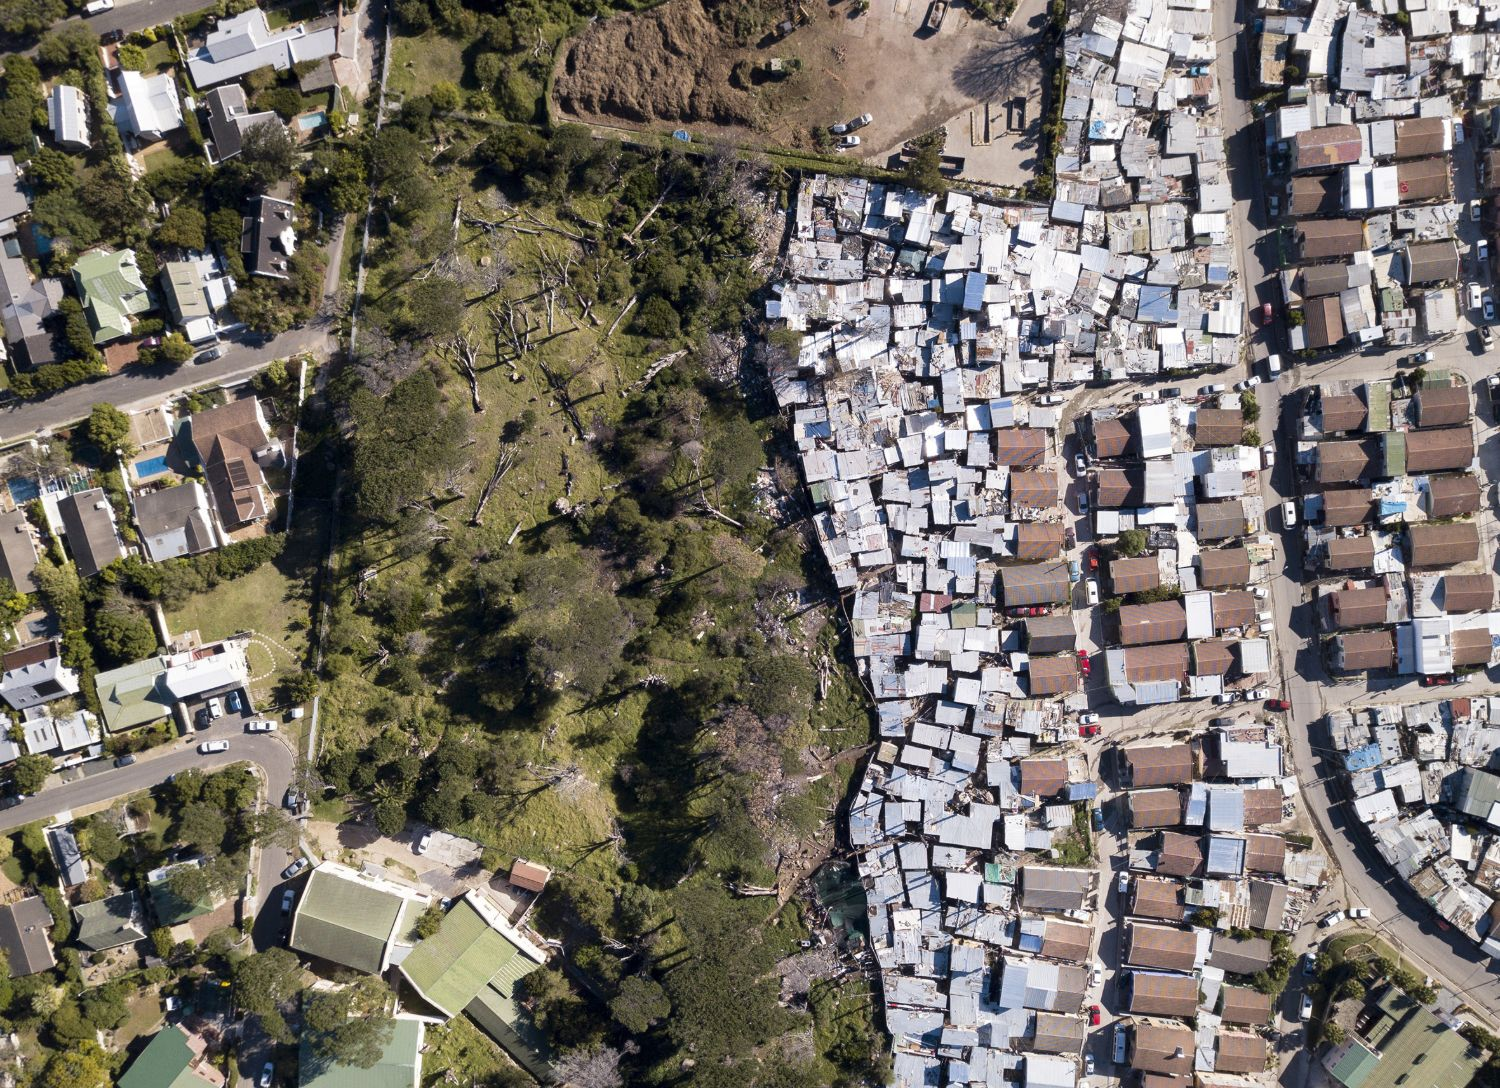
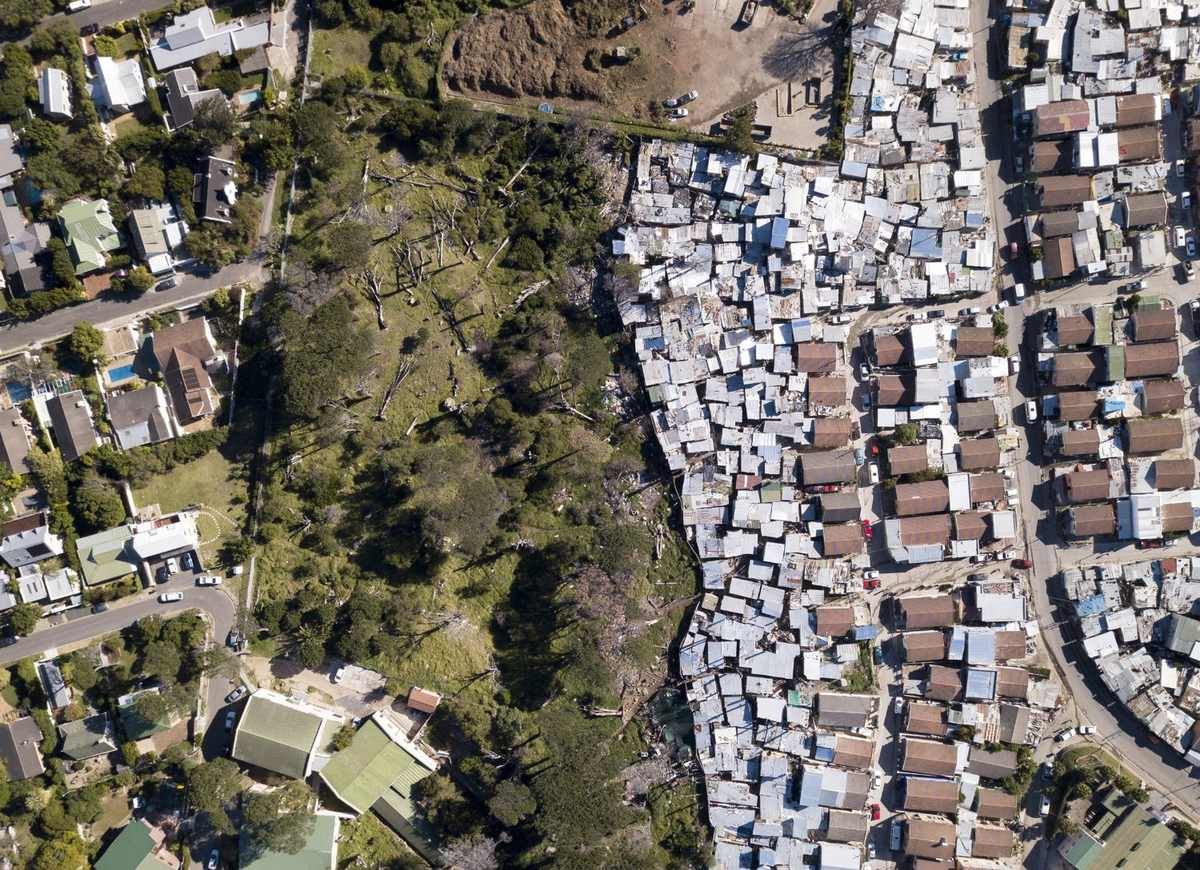
Compress the hero image for faster load
Recompress the course hero from the original: resize to 1200px wide and
re-encode as a progressive, optimized JPEG. 509 KB -> 183 KB (64% smaller),
with no visible loss under the brand overlay. Bump the asset cache version.

Claude-Session: https://claude.ai/code/session_01L86c8n6w93yhFaoJDazVFP

diff --git a/index.html b/index.html
@@ -8,7 +8,7 @@
   <link rel="preconnect" href="https://fonts.googleapis.com">
   <link rel="preconnect" href="https://fonts.gstatic.com" crossorigin>
   <link href="https://fonts.googleapis.com/css2?family=Noto+Sans:wght@400;500;600;700;800&display=swap" rel="stylesheet">
-  <link rel="stylesheet" href="assets/style.css?v=20261003">
+  <link rel="stylesheet" href="assets/style.css?v=20261004">
 </head>
 <body>
   <header class="hero">
@@ -166,10 +166,10 @@
     <div class="wrap">© International Training Centre of the ILO, 2026 · Programme on Social Protection, Governance and Tripartism (SPGT)</div>
   </footer>
 
-  <script src="data/course.js?v=20261003"></script>
-  <script src="data/participants.js?v=20261003"></script>
-  <script src="data/samples.js?v=20261003"></script>
-  <script src="assets/app.js?v=20261003"></script>
-  <script src="assets/dossier.js?v=20261003"></script>
+  <script src="data/course.js?v=20261004"></script>
+  <script src="data/participants.js?v=20261004"></script>
+  <script src="data/samples.js?v=20261004"></script>
+  <script src="assets/app.js?v=20261004"></script>
+  <script src="assets/dossier.js?v=20261004"></script>
 </body>
 </html>

diff --git a/assets/style.css b/assets/style.css
@@ -56,7 +56,7 @@ a { color: var(--primary); }
   background:
     linear-gradient(to top, rgba(31,58,115,.94) 6%, rgba(31,58,115,.30) 60%, rgba(31,58,115,.10) 100%),
     linear-gradient(100deg, rgba(40,75,150,.96) 0%, rgba(40,75,150,.78) 48%, rgba(40,75,150,.42) 100%),
-    url("course-hero.jpg?v=20261003") right center / cover no-repeat;
+    url("course-hero.jpg?v=20261004") right center / cover no-repeat;
   padding: 36px 0 30px;
 }
 .hero::after { content: ""; position: absolute; left: 0; right: 0; bottom: 0; height: 4px; background: var(--ilo-cyan); }
